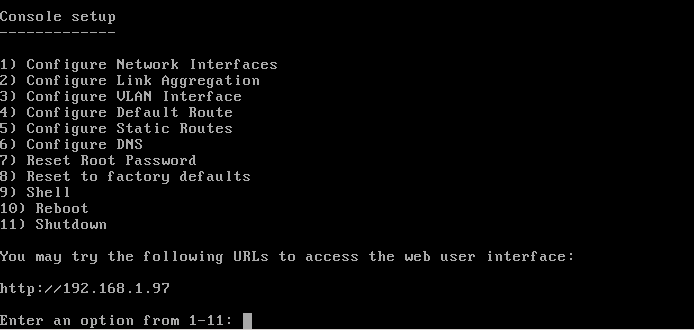
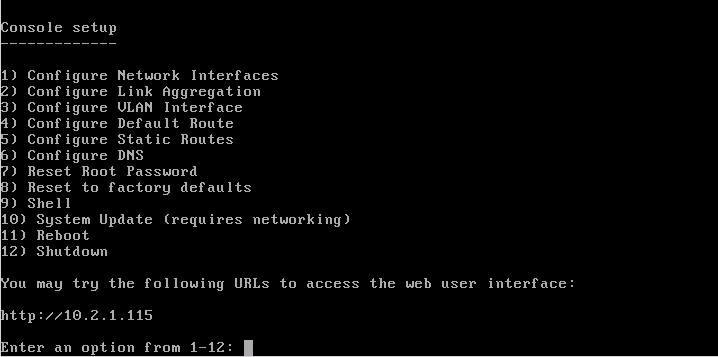
Document new netcli option.

diff --git a/docs/userguide/freenas_quick.rst b/docs/userguide/freenas_quick.rst
@@ -16,8 +16,8 @@ system's keyboard and monitor, this Console Setup menu can be used to administer
 |console1.png|
 
 .. |console1.png| image:: images/console1.png
-    :width: 5.8in
-    :height: 2.8in
+    :width: 6.4in
+    :height: 3.1in
 
 This menu provides the following options:
 
@@ -43,13 +43,17 @@ need to go to :menuselection:`Storage --> Volumes --> Auto Import Volume` to re-
 
 **9) Shell:** enters a shell in order to run FreeBSD commands. To leave the shell, type :command:`exit`.
 
-**10) Reboot:** reboots the system.
+**10) System Update:** if any system updates are available, they will automatically be downloaded and applied. The functionality is the same as described in
+:ref:`Updating Between Major Releases`, except that the updates will be applied immediately for the currently selected train and access to the GUI is not
+required.
 
-**11) Shutdown:** halts the system.
+**11) Reboot:** reboots the system.
+
+**12) Shutdown:** halts the system.
 
 During boot, FreeNAS® will automatically try to connect to a DHCP server from all live interfaces. If it successfully receives an IP address, it will display
 the IP address which can be used to access the graphical console. In the example seen in Figure 2.5b, the FreeNAS® system is accessible from
-*http://192.168.1.97*.
+*http://10.2.1.115*.
 
 If your FreeNAS® server is not connected to a network with a DHCP server, you can use the network configuration wizard to manually configure the interface as
 seen in Example 3a. In this example, the FreeNAS® system has one network interface (*em0*).

diff --git a/docs/userguide/freenas_intro.rst b/docs/userguide/freenas_intro.rst
@@ -236,7 +236,8 @@ The GUI has been reorganized as follows:
 
 The following fields have been added or deleted:
 
-* The "Reset WebGUI login credentials" entry in the "Console setup" menu has been renamed to "Reset Root Password".
+* The "System Update" option has been added to the "Console setup" menu. The "Reset WebGUI login credentials" entry in the "Console setup" menu has been
+  renamed to "Reset Root Password".
 
 * The "Certificate" drop-down menu and "WebGUI -> HTTPS Port" field have been added to :menuselection:`System --> General`.
 
